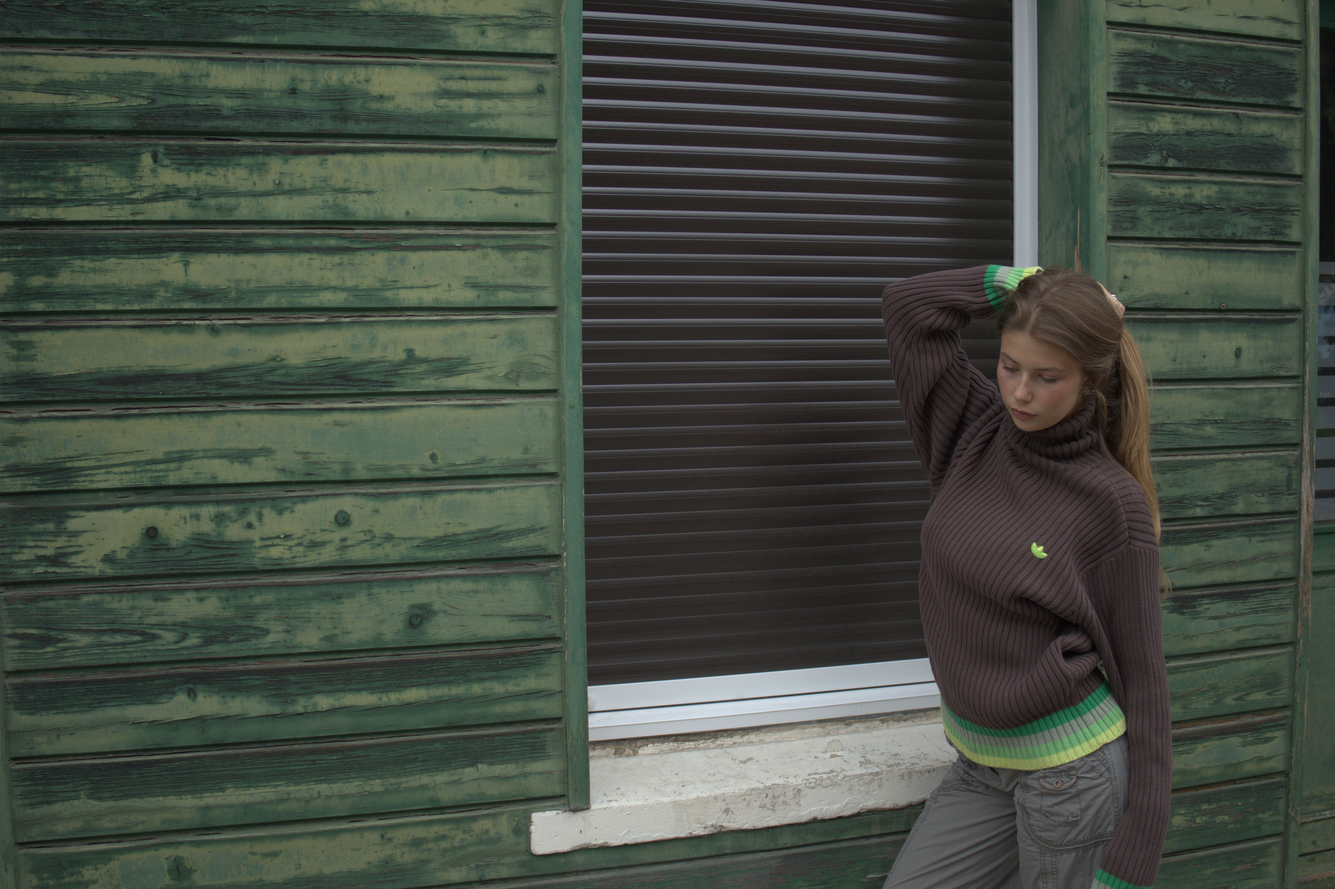
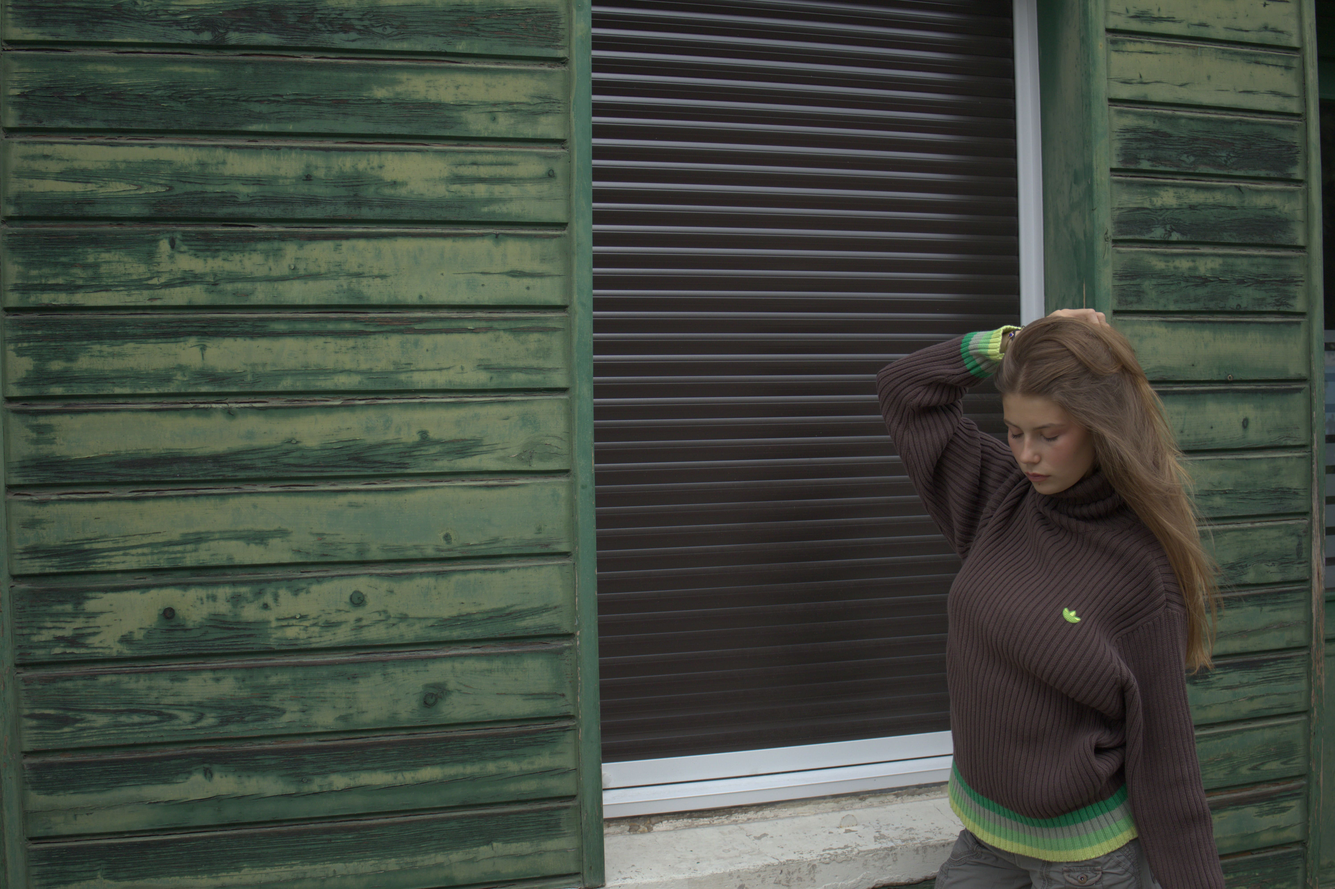
Pose la seconde prise sur le bandeau des pulls
Photo remplacée à la demande de la boutique. Même scène, cadrée plus large :
la personne est plus petite et décalée vers la droite, le mur vert occupe
toute la gauche.

Le fichier garde son nom. Il désigne un RÔLE — le bandeau du rayon des pulls
— et non un numéro de prise : un `bandeau-pull-2.jpg` aurait dit vrai le jour
du dépôt, faux à la troisième photo, et aurait laissé l'ancienne image, plus
référencée par personne, partir quand même dans le déploiement.

Le cadrage est REMESURÉ, pas repris. C'est le point : l'ancre est un
pourcentage de la source, donc un chiffre juste sur une photo est faux sur la
suivante dès que le sujet a bougé. Reprendre 54 % aurait coupé le visage —
c'est précisément l'erreur payée sur la première photo. Relevé sur la source,
vérifié sur la page servie de 1440×600 à 1440×1200 et sur téléphone : à 58 %
le visage tient dans les cinq fenêtres, avec trois points de marge sur la
plus basse. Ce qui saute là, c'est le haut du bras levé — un bras coupé se
lit comme un cadrage, un visage coupé comme une erreur.

Le côté reste à 50 %, et le commentaire dit pourquoi : le cadre est toujours
plus large que le 3/2 de la source, donc `cover` ne rogne que la hauteur et
toute la largeur de la photographie est montrée, partout.

Claude-Session: https://claude.ai/code/session_01BnqBN5xqkMWRvRXzjtWp2j

diff --git a/lib/design/category-banners.ts b/lib/design/category-banners.ts
@@ -85,34 +85,49 @@ export interface CategoryBannerImage {
  */
 export const CATEGORY_BANNERS: Readonly<Record<string, CategoryBannerImage>> = {
   /*
-    Pulls et sweats.
+    Pulls et sweats. SECONDE PRISE, posée à la demande de la boutique.
 
-    Positions relevées à la règle sur la source (5992×3992) :
+    Le fichier garde son nom : il désigne un RÔLE — le bandeau du rayon des
+    pulls — et non un numéro de prise. Un `bandeau-pull-2.jpg` aurait porté
+    une information vraie le jour du dépôt et fausse à la troisième photo, et
+    aurait laissé traîner l'ancienne, non référencée, dans le déploiement.
 
-      28 %  main levée        30 %  haut des cheveux     38-55 %  visage
-      48-58 %  col roulé      55-85 %  corps du pull     80-87 %  bordure rayée
+    Même scène que la précédente, mais cadrée PLUS LARGE : la personne est plus
+    petite, décalée vers la droite, et le mur vert occupe toute la gauche. Un
+    cadrage se remesure donc entièrement — reprendre l'ancien chiffre aurait
+    décapité le sujet, ce qui est exactement ce qui s'est produit la première
+    fois.
 
-    54 % pose donc l'ancre sur le col — c'est-à-dire sur la charnière entre la
-    personne et le vêtement, les deux choses à montrer.
+    Positions relevées sur la source (5992×3992) :
+
+      34 %  main levée        37 %  haut des cheveux     44-55 %  visage
+      54-59 %  col roulé      55-91 %  corps du pull     89-95 %  bordure rayée
+
+    58 % pose l'ancre sur le col — la charnière entre la personne et le
+    vêtement, les deux choses à montrer.
 
     Vérifié sur la page servie, de la fenêtre la plus basse à la plus haute :
 
-      1440×700   cadre 6.03/1   bande source [40 %, 65 %]
-      1440×900   cadre 4.69/1   bande source [37 %, 69 %]
-      1440×1200  cadre 3.52/1   bande source [31 %, 74 %]
-      390×844    cadre 2.20/1   bande source [17 %, 85 %]
+      1440×600   cadre 5.45/1   bande source [42 %, 70 %]
+      1440×700   cadre 4.68/1   bande source [39 %, 71 %]
+      1440×900   cadre 3.00/1   bande source [29 %, 79 %]
+      1440×1200  cadre 2.35/1   bande source [21 %, 85 %]
+      390×844    cadre 1.70/1   bande source [ 7 %, 95 %]
 
-    Le visage (38-55 %) tient dans les quatre. C'était le point : sur la plus
-    basse — celle qui montre le moins — la chevelure est effleurée en haut du
-    cadre, mais le visage reste entier.
+    Le visage (44-55 %) tient dans les cinq, y compris sur la fenêtre la plus
+    basse, où il ne reste que trois points de marge au-dessus. C'est le point
+    du réglage. Ce qui saute sur cette fenêtre-là, c'est le haut du bras levé
+    et la naissance des cheveux — un bras coupé par le haut du cadre se lit
+    comme un cadrage, un visage coupé se lit comme une erreur.
 
-    Le réglage précédent était 48 %, choisi pour garder aussi la chevelure sur
-    toutes les fenêtres. Remonté à la demande : 54 % montre davantage de pull,
-    au prix de ce haut de tête sur la seule fenêtre la plus basse.
+    Le côté ne joue aucun rôle et reste à 50 % : le cadre est toujours plus
+    large que le 3/2 de la source — de 1.70/1 sur téléphone à 5.45/1 sur une
+    fenêtre basse —, si bien que `cover` ne rogne QUE la hauteur. Toute la
+    largeur de la photographie est montrée, sur toutes les fenêtres.
   */
   'pulls-sweats': {
     src: '/images/bandeau-pull.jpg',
-    cadrage: '50% 54%',
+    cadrage: '50% 58%',
     // Décorative : le titre « Pulls et sweats » est juste à côté, dans le
     // bandeau, et le dit déjà.
     alt: '',
